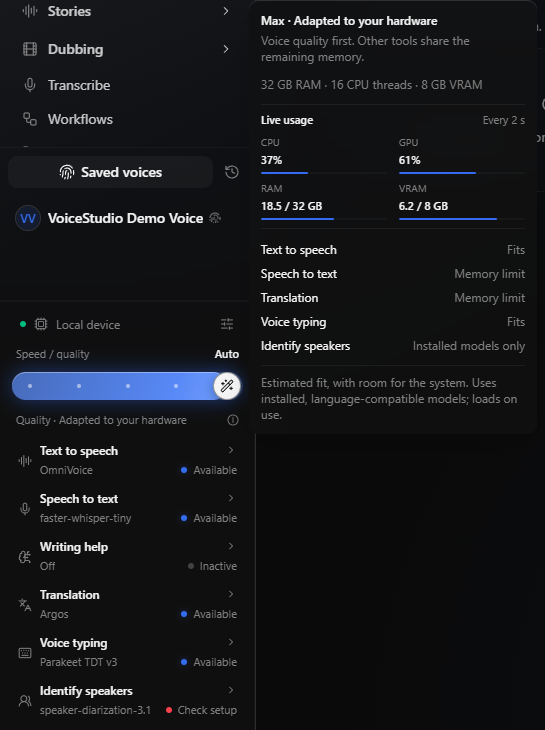
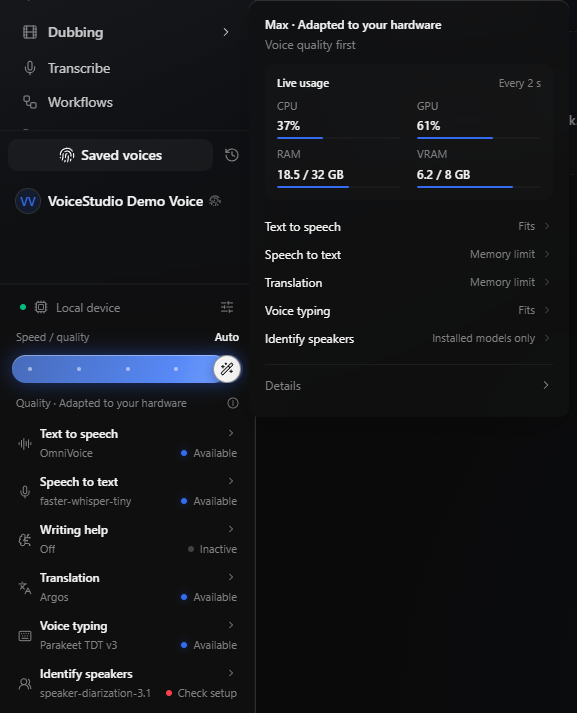
Polish hardware panel and preserve usable sidebar space

diff --git a/electron/src/renderer/src/components/performance-profile.tsx b/electron/src/renderer/src/components/performance-profile.tsx
@@ -8,6 +8,7 @@ import {
   SparklesIcon,
   WandSparklesIcon,
   InfoIcon,
+  ChevronRightIcon,
 } from 'lucide-react';
 import { useTranslation } from 'react-i18next';
 import { useId, useState } from 'react';
@@ -332,7 +333,7 @@ export function PerformanceProfile({
           </PopoverTrigger>
           <PopoverContent
             side="right"
-            className="max-h-[min(42rem,80dvh)] w-72 space-y-3 overflow-y-auto p-3 text-xs"
+            className="max-h-[min(42rem,80dvh)] w-80 max-w-[calc(100vw-1rem)] space-y-3 overflow-y-auto p-4 text-xs"
           >
             <div>
               <p className="font-medium">
@@ -343,26 +344,10 @@ export function PerformanceProfile({
                       (plan.max_status === 'limited' ? 'reason.memory' : plan.max_status),
                   )}
               </p>
-              <p className="mt-1 text-muted-foreground">{t('performanceHardware.priority')}</p>
+              <p className="mt-1 text-muted-foreground">{t('performanceHardware.voiceFirst')}</p>
             </div>
-            <p className="text-muted-foreground tabular-nums">
-              {t('performanceHardware.specs', {
-                ram:
-                  plan.hardware.ram_gb?.toLocaleString(i18n.language, {
-                    maximumFractionDigits: 0,
-                  }) ?? '—',
-                cores: plan.hardware.cpu_threads,
-              })}
-              {plan.hardware.vram_gb != null &&
-                ' · ' +
-                  t('performanceHardware.vram', {
-                    memory: plan.hardware.vram_gb.toLocaleString(i18n.language, {
-                      maximumFractionDigits: 0,
-                    }),
-                  })}
-            </p>
             <LiveDeviceUsage open={hardwareOpen} />
-            <div className="space-y-2">
+            <div className="-mx-1">
               {(['tts', 'asr', 'translation', 'dictation', 'diarisation'] as const).map((name) => {
                 const entry = plan.families[name];
                 return (
@@ -370,19 +355,49 @@ export function PerformanceProfile({
                     key={name}
                     to="/settings/models/$family"
                     params={{ family: name }}
-                    className="flex items-baseline justify-between gap-3 rounded outline-none hover:text-primary focus-visible:ring-2 focus-visible:ring-ring"
+                    className="group flex min-h-7 items-center justify-between gap-3 rounded-md px-1 py-1 outline-none hover:bg-muted/60 focus-visible:ring-2 focus-visible:ring-ring"
                   >
                     <span>{t('sidebarTools.' + name)}</span>
-                    <span className="text-end text-muted-foreground">
+                    <span className="flex items-center gap-1.5 text-end text-[11px] text-muted-foreground">
                       {t('performanceHardware.reason.' + entry.reason)}
+                      <ChevronRightIcon
+                        className="size-3 shrink-0 opacity-50 group-hover:opacity-100 rtl:rotate-180"
+                        aria-hidden="true"
+                      />
                     </span>
                   </Link>
                 );
               })}
             </div>
-            <p className="border-t pt-2 text-muted-foreground">
-              {t('performanceHardware.estimate')}
-            </p>
+            <details className="group/details border-t pt-1 text-muted-foreground">
+              <summary className="flex min-h-8 cursor-pointer list-none items-center justify-between gap-2 rounded outline-none hover:text-foreground focus-visible:ring-2 focus-visible:ring-ring [&::-webkit-details-marker]:hidden">
+                {t('sidebarTools.details')}
+                <ChevronRightIcon
+                  className="size-3.5 shrink-0 group-open/details:rotate-90 rtl:rotate-180"
+                  aria-hidden="true"
+                />
+              </summary>
+              <div className="space-y-2 pt-1 leading-relaxed">
+                <p className="text-foreground/80 tabular-nums">
+                  {t('performanceHardware.specs', {
+                    ram:
+                      plan.hardware.ram_gb?.toLocaleString(i18n.language, {
+                        maximumFractionDigits: 0,
+                      }) ?? '—',
+                    cores: plan.hardware.cpu_threads,
+                  })}
+                  {plan.hardware.vram_gb != null &&
+                    ' · ' +
+                      t('performanceHardware.vram', {
+                        memory: plan.hardware.vram_gb.toLocaleString(i18n.language, {
+                          maximumFractionDigits: 0,
+                        }),
+                      })}
+                </p>
+                <p>{t('performanceHardware.priority')}</p>
+                <p>{t('performanceHardware.estimate')}</p>
+              </div>
+            </details>
           </PopoverContent>
         </Popover>
       )}

diff --git a/electron/src/renderer/src/components/live-device-usage.tsx b/electron/src/renderer/src/components/live-device-usage.tsx
@@ -59,7 +59,7 @@ export function LiveDeviceUsage({ open }: { open: boolean }) {
     <section
       aria-label={t('performanceHardware.liveUsage')}
       data-slot="live-device-usage"
-      className="space-y-2 border-y py-2"
+      className="space-y-2 rounded-lg bg-muted/40 p-3"
     >
       <div className="flex items-center justify-between gap-2 text-[11px]">
         <span className="font-medium">{t('performanceHardware.liveUsage')}</span>
@@ -83,11 +83,11 @@ export function LiveDeviceUsage({ open }: { open: boolean }) {
           </span>
         )}
       </div>
-      <dl className="grid grid-cols-2 gap-x-3 gap-y-2">
+      <dl className="grid grid-cols-2 gap-x-4 gap-y-2">
         {metrics.map(({ label, value, fill }) => (
           <div key={label} className="min-w-0 space-y-1">
-            <dt className="text-[10px] text-muted-foreground">{label}</dt>
-            <dd className="text-[11px] font-medium tabular-nums" title={value}>
+            <dt className="text-[11px] text-muted-foreground">{label}</dt>
+            <dd className="text-xs font-medium tabular-nums" title={value}>
               {value}
             </dd>
             <div className="h-0.5 overflow-hidden rounded-full bg-muted" aria-hidden="true">

diff --git a/electron/src/renderer/src/components/app-shell/workspace-sidebar.tsx b/electron/src/renderer/src/components/app-shell/workspace-sidebar.tsx
@@ -110,7 +110,7 @@ export function WorkspaceSidebar() {
           ref={sidebarResize.host}
           style={{ width: sidebarResize.width }}
           aria-label={t('clone.saved_profiles')}
-          className="brand-sidebar relative isolate grid h-full min-h-0 min-w-0 shrink-0 grid-cols-[minmax(0,1fr)] grid-rows-[auto_minmax(0,auto)_minmax(0,1fr)_auto] overflow-hidden border-r border-border/50 bg-sidebar"
+          className="brand-sidebar relative isolate grid h-full min-h-0 min-w-0 shrink-0 grid-cols-[minmax(0,1fr)] grid-rows-[auto_minmax(0,auto)_minmax(7rem,1fr)_auto] overflow-hidden border-r border-border/50 bg-sidebar"
         >
           <img
             src={brandArtwork}

diff --git a/tests/test_performance_inventory.py b/tests/test_performance_inventory.py
@@ -98,7 +98,16 @@ def test_env_pinned_tts_is_preserved(local_inventory, monkeypatch):
 
 
 @pytest.mark.parametrize("runtime", ["omnivoice-subprocess", "omnivoice-isolated"])
-def test_preserves_selected_omnivoice_isolation(local_inventory, runtime):
+def test_preserves_selected_omnivoice_isolation(local_inventory, runtime, monkeypatch):
+    from services import tts_backend
+    # The legacy isolated ID is not registered. Retain it without probing a
+    # backend class that the runtime cannot resolve.
+    available_class = tts_backend.get_backend_class("omnivoice")
+    def registered_class(engine):
+        if engine not in tts_backend._REGISTRY:
+            raise ValueError(f"Unknown TTS backend: {engine!r}")
+        return available_class
+    monkeypatch.setattr(tts_backend, "get_backend_class", registered_class)
     local_inventory["tts"] = {"engine": runtime, "model": "k2-fsa/OmniVoice"}
     assert inventory.profile_plan("max", {}, local_inventory)["families"]["tts"]["selection"]["engine"] == runtime
 

diff --git a/backend/services/performance_inventory.py b/backend/services/performance_inventory.py
@@ -33,7 +33,7 @@ def profile_plan(choice: str, overrides: dict, selections: dict) -> dict:
     from services.model_manager import resolve_omnivoice_checkpoint
     custom_checkpoint = resolve_omnivoice_checkpoint() != "k2-fsa/OmniVoice"
     if not custom_checkpoint and not any(os.environ.get(key) for key in ("OMNIVOICE_TTS_BACKEND", "OMNIVOICE_KITTENTTS_MODEL")) and current_tts in {
-        "kittentts", "omnivoice", "omnivoice-isolated", "omnivoice-subprocess",
+        "kittentts", "omnivoice", "omnivoice-subprocess",
     }:
         from api.routers.setup.models import KNOWN_MODELS, cache_is_complete, is_cached, _model_supported
         from core.device_caps import detect_host_caps

diff --git a/docs/electron-performance.md b/docs/electron-performance.md
@@ -31,7 +31,7 @@ Global plans reserve system headroom, retain pinned/custom choices, then allocat
 
 The estimates describe working memory, not download size. CPU and dedicated-GPU budgets are separate; Apple unified memory is counted only once. Auto uses stable total-capacity budgets with system reserves so loading the app's own models does not cause repeated switching. It is reconsidered when selected, at startup and after installation, not continuously during a job. Runtime memory-pressure checks still apply when loading; fit estimates cannot guarantee peak use or account precisely for other applications. Missing hardware readings preserve model selections and show an unavailable check. No model is preloaded by moving the slider.
 
-The hardware explanation also shows live local CPU/GPU utilization and RAM/VRAM used versus capacity. It shares the device-status telemetry query and refreshes every two seconds while open, stopping on close. Unsupported readings and failed or offline samples show Unavailable instead of a false zero or stale live value. When device-wide GPU telemetry is unavailable, reported process allocation is labeled App VRAM. The panel scrolls on short windows. Planning estimates remain separate from these live measurements.
+The hardware explanation shows live local CPU/GPU utilization and RAM/VRAM used versus capacity in a compact grid, followed by each tool's memory fit. Expand Details for hardware specifications and how models share memory. It shares the device-status telemetry query and refreshes every two seconds while open, stopping on close. Unsupported readings and failed or offline samples show Unavailable instead of a false zero or stale live value. When device-wide GPU telemetry is unavailable, reported process allocation is labeled App VRAM. The panel scrolls on short windows. Planning estimates remain separate from these live measurements.
 
 Connected controls include OmniVoice sampling (8/16/32/64 steps), Faster-Whisper decoding search (1/3/5/8), Sherpa transducer dictation search (greedy through 8-path modified beam search), local NLLB beam search (1/3/5/8), and installed diarisation runtimes. Clone, Dubbing, Batch, Voice Conversion, Stories and Audiobook resolve untouched TTS controls through this shared contract; an explicit Production override still wins. Global plans cache the effective decoder tiers after applying their model choices. Dictation rebuilds its warm recognizer when the selected model changes. With only one diarisation runtime its individual family control stays unavailable. LLM selection remains explicit because it has no comparable local effort control.
 
